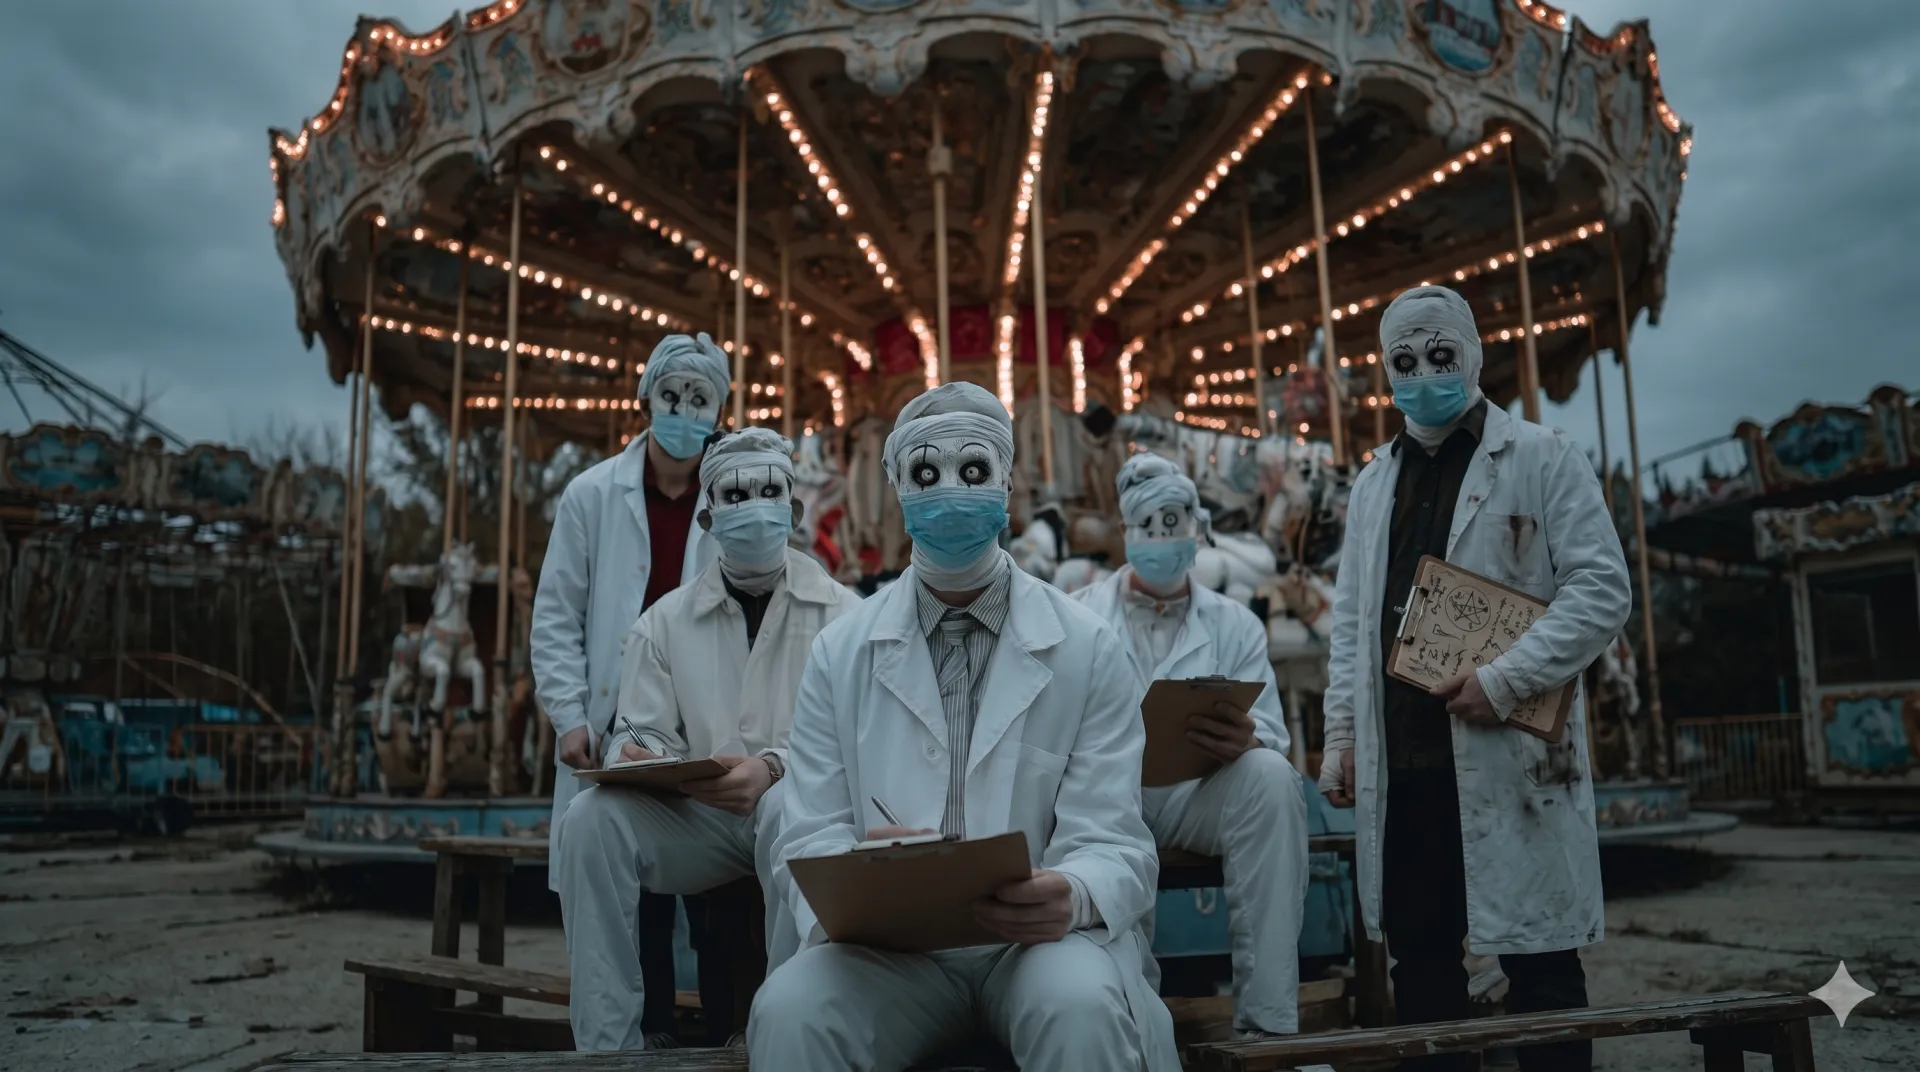
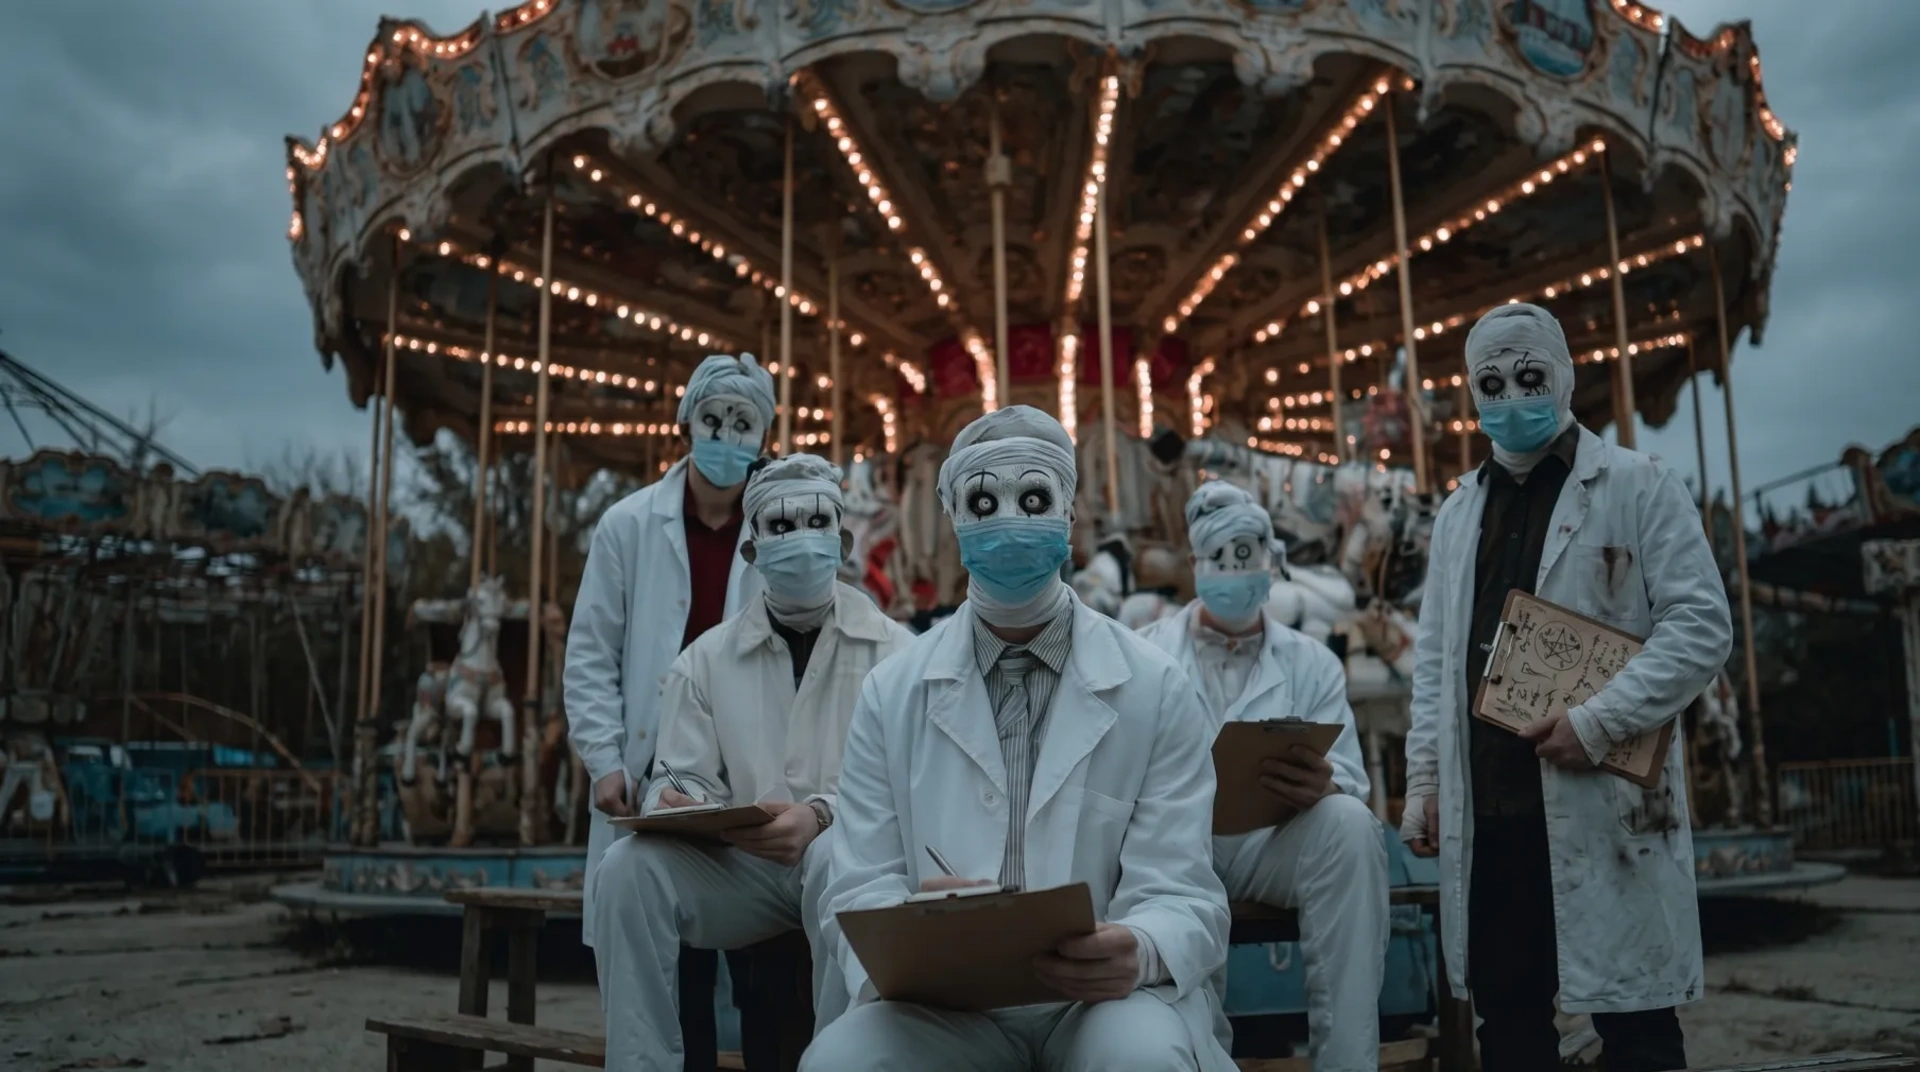
pics cropped

diff --git a/docs/IMAGE_ART_DIRECTION_MANIFEST.md b/docs/IMAGE_ART_DIRECTION_MANIFEST.md
@@ -1,6 +1,6 @@
 # Image Art Direction Manifest
 
-Снимок: 2026-09-05
+Снимок: 2026-09-06
 Scope: `/Users/nateglukhov/analog-horror-site/assets/guest` и
 `/Users/nateglukhov/analog-horror-site/assets/staff`.
 
@@ -91,7 +91,6 @@ These rows need a human decision before any visual mutation:
 - `assets/staff/documents/dossier-sz-312-05.jpg` — personal object evidence or event record.
 - `assets/staff/curators/irina/cctv-pavel-observation-booth-poster.webp` — monitor-room event, not automatically CCTV because of its filename.
 - `assets/staff/classes/class-10-sun-mask.webp` — portrait used as an admin overlay; verify crop and visible generation mark.
-- `assets/guest/recruitment-guest.webp` — bright promotional outlier; verify the bottom-right generation/watermark-like mark.
 - `assets/staff/about-slides.webp` — location still currently presented inside the broadcast shell.
 - Every row with `Public = no` — source-only/staging material; this is not a deletion instruction.
 
@@ -186,7 +185,7 @@ change runtime references or change canon.
 | `assets/guest/locations/solnyshko/park-wide-15s_poster.webp` | `IMMERSIVE-SCENE` | Solnyshko runtime poster / fallback | `IMMERSIVE-SCENE` | 1280x720 | yes | OWN-RUNTIME | PROTECTED |
 | `assets/guest/logo.svg` | `UTILITY` | brand mark | `SHELL` | 900x210 | yes | CONTEXT-SPECIFIC | — |
 | `assets/guest/pool.webp` | `ADVERTISEMENT` | location thumbnail / facade plate | `GUEST-FACADE` | 1920x1081 | yes | CLEAN-WIDE | — |
-| `assets/guest/recruitment-guest.webp` | `ADVERTISEMENT` | guest recruitment | `GUEST-FACADE` | 1920x1072 | yes | CLEAN-WIDE | WM-QA |
+| `assets/guest/recruitment-guest.webp` | `ADVERTISEMENT` | guest recruitment | `GUEST-FACADE` | 1920x1072 | yes | CLEAN-WIDE | — |
 | `assets/guest/recruitment-staff.webp` | `ADVERTISEMENT` | staff recruitment | `BROADCAST-ZHIR-TV` | 1920x1072 | yes | CLEAN-WIDE | — |
 | `assets/guest/red-room/game/espresso-metal-texture.webp` | `IMMERSIVE-SCENE` | Red Room game texture | `IMMERSIVE-SCENE` | 640x640 | yes | OWN-RUNTIME | PROTECTED |
 | `assets/guest/red-room/game/espresso-receipt-texture.webp` | `IMMERSIVE-SCENE` | Red Room game texture | `IMMERSIVE-SCENE` | 640x640 | yes | OWN-RUNTIME | PROTECTED |

diff --git a/docs/AGENT_STATUS.md b/docs/AGENT_STATUS.md
@@ -9,16 +9,16 @@
 |---|---|
 | Обновлено | 2026-09-06 CDT |
 | Ветка / HEAD | `main` / `fc5562e` |
-| Дерево | dirty: STAFF FAQ без P-лейблов |
-| Активная линия | STAFF FAQ: убрать телетекст-лейблы P и увеличить шрифт |
-| Последний этап | Убраны бейджи `P301+` у вопросов; шрифт вопросов/ответов увеличен (~16.8/16 desktop, ~15.7/15.2 mobile). Overflow `0`. `git diff --check`. |
+| Дерево | dirty: четыре Gemini-crop ассета и обновлённый image manifest |
+| Активная линия | Удаление видимых Gemini-меток из production-изображений |
+| Последний этап | Обрезаны и увеличены до `1920×1072` `recruitment-guest.webp`, `guides.webp`, `medics.webp` и `tyndex.webp`; `class-10-sun-mask.webp` восстановлен и исключён; public build/verifier OK, `git diff --check`. |
 | Commit / push / deploy | только по прямой просьбе пользователя |
 | Следующий gate | commit/push/deploy отдельно |
 
 ## Write-замок
 
 ```text
-FREE
+WRITER / ABOUT-CLASS-CROPS / STARTED
 ```
 
 Перед правкой заменить `FREE` на `WRITER / SCOPE / STARTED`. Перед остановкой
